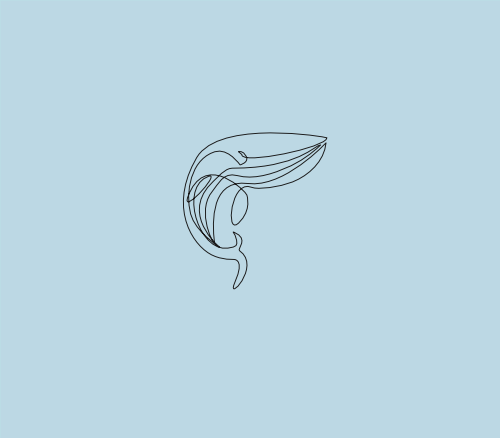
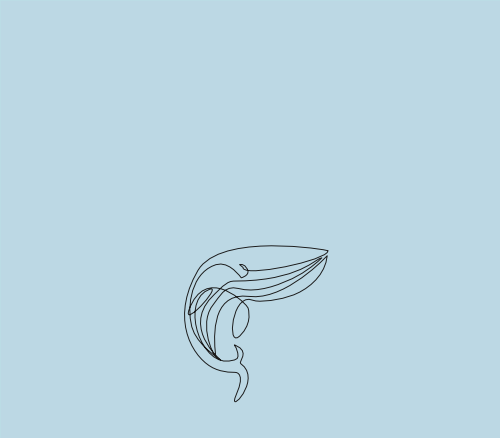
replace jumbo

Changed region(s): [[0.36, 0.2968, 0.66, 0.8904], [0.45, 0.8904, 0.48, 0.9201]]

diff --git a/index.html b/index.html
@@ -8,7 +8,6 @@
 
   <link href='https://fonts.googleapis.com/css?family=Source Sans Pro:300,400,700' rel='stylesheet' type='text/css'>
 
-  <link href='https://fonts.googleapis.com/css?family=Montserrat Thin:300,400,700' rel='stylesheet' type='text/css'>
 
   <link href='https://fonts.googleapis.com/css?family=Raleway:300,400,700' rel='stylesheet' type='text/css'>
 
@@ -34,6 +33,10 @@
 
 <section class="jumbotron">
   <div class="container">
+<figure class="col-sm-12">
+ 	 <img src="https://gabiralta.github.io/smalljumbo.png">
+</figure>
+
     <div class="row text-center">
     <h2>Gabriela Peralta</h2>
 <h3>Graphic Designer</h3>

diff --git a/main.css b/main.css
@@ -39,17 +39,16 @@ header nav {
 .jumbotron {
   display: flex;
   align-items: center;
-  background-image: url('https://gabiralta.github.io/jumbotron.png');
-  background-size: cover;
+  background-color: #BCD8E4;
   color: #fff;
   height: 700px;
 }
 
 .jumbotron h2 {
   font-size: 60px;
-  margin: 45rem 0 0 0;
+  margin: 30rem 0 0 0;
   color: #000;
-  padding: 5rem 0 0 0;
+  padding: 0;
   font-family: 'Raleway', source sans pro;
 }
 
